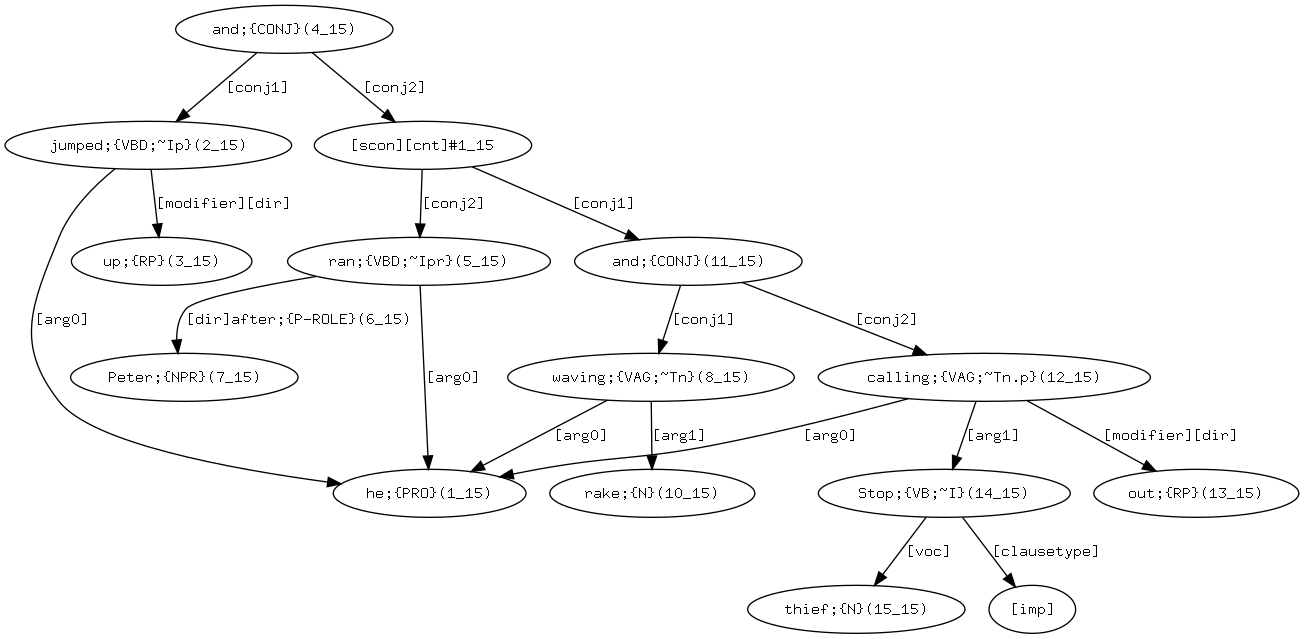
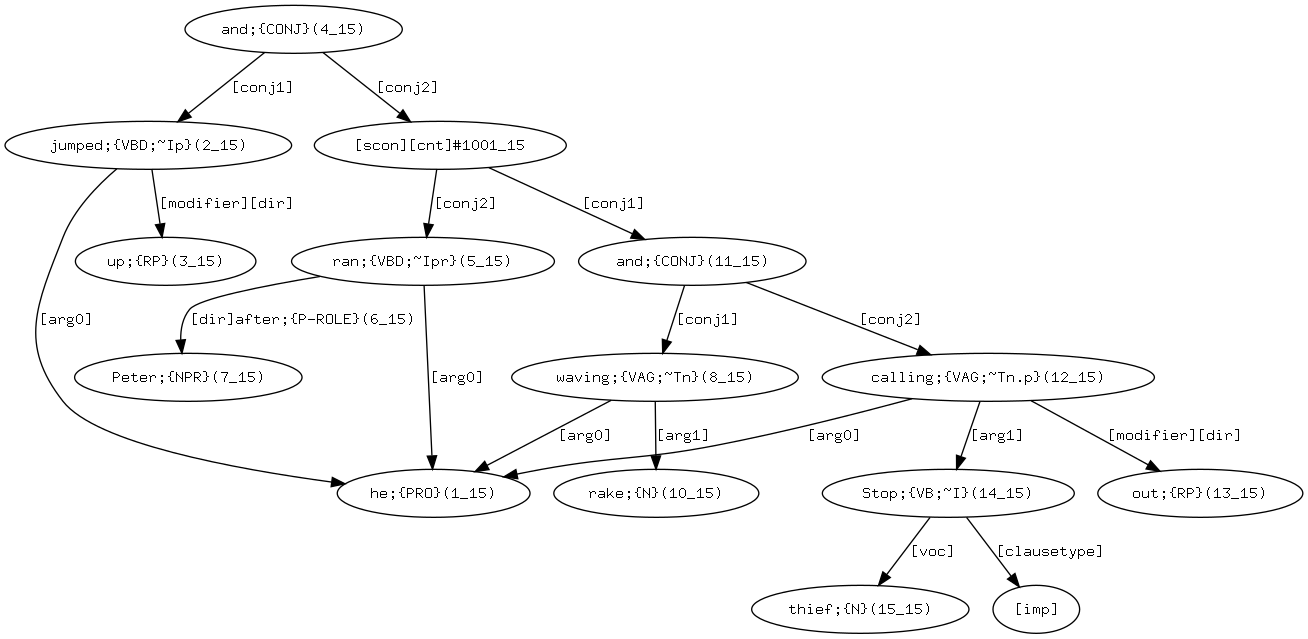
update

diff --git a/puzzle_graphs_j.html b/puzzle_graphs_j.html
@@ -70,7 +70,7 @@ body {
 
 <p align="justify">解答文を考えるために、まずは<tt>arg0]</tt>が含まれる矢印を探しましょう。 <tt>[arg0]</tt>が含まれる矢印のマスターノード（矢印の出発点）は、１つの節（補助的な役割を果たす他の単語を含む可能性がある）における主動詞になります。 一方、<tt>[arg0]</tt>が含まれる矢印の従属ノード（矢印が指しているもの）は、主語に対応する主要語（行為者あるいは状態の当事者あるいは所有者）となります。</p>
 
-<p align="justify">&nbsp;&nbsp;&nbsp;&nbsp;図<a href="#fig1">1</a>のパズルで実際に解いてみましょう。 このパズルグラフは1つの節を表わしています。 <tt>[arg0]</tt>を確認すると、<i>were</i>が主動詞であり、それを<i>there</i>がサポ－トしていることが分かります。 また、<i>Rabbits</i>が主動詞の状態の当事者（主語）であるということも分かります。</p>
+<p align="justify">&nbsp;&nbsp;&nbsp;&nbsp;図<a href="#fig1">1</a>のパズルで実際に解いてみましょう。 このパズルグラフは1つの節を表わしています。 <tt>[arg0]</tt>を確認すると、<i>were(6_1)</i>が主動詞であり、それを<i>there(5_1)</i>がサポ－トしていることが分かります。 また、<i>Rabbits(9_1)</i>が主動詞の状態の当事者（主語）であるということも分かります。</p>
 
 <p><a name="fig1">図 1: 単一の節のパズルグラフ</a></p>
 
@@ -82,16 +82,16 @@ body {
   <dt>(<a name="ex1">1</a>)</dt><dd>there were Rabbits</dd>
 </dl>
 
-<p align="justify">(<a href="#ex1">1</a>)は、この時点で既にれっきとした英文です！ しかし、(<a href="#ex1">1</a>)はまだパズル<a href="#fig1">1</a>の完全な答えではありません。まだ使われていない単語があるからです。 残っている単語のうち2語は、<i>Rabbits</i>をマスターノードとする矢印の先にあります。これらは<i>Rabbits</i>を修飾しています。 具体的には、 うさぎの数を伝える数詞（<i>four</i>）とうさぎの大きさを伝える属性修飾語(little)があります。 英語では、 数を表す修飾語は属性を表す修飾語の前に置かれなければなりません。よって、解答(<a href="#ex2">2</a>)が導かれます。</p>
+<p align="justify">(<a href="#ex1">1</a>)は、この時点で既にれっきとした英文です！ しかし、(<a href="#ex1">1</a>)はまだパズル<a href="#fig1">1</a>の完全な答えではありません。まだ使われていない単語があるからです。 残っている単語のうち2語は、<i>Rabbits(9_1)</i>をマスターノードとする矢印の先にあります。これらは<i>Rabbits(9_1)</i>を修飾しています。 具体的には、 うさぎの数を伝える数詞（<i>four(7_1)</i>）とうさぎの大きさを伝える属性修飾語(little(8_1))があります。 英語では、 数を表す修飾語は属性を表す修飾語の前に置かれなければなりません。よって、解答(<a href="#ex2">2</a>)が導かれます。</p>
 
 <dl>
   <dt>(<a name="ex2">2</a>)</dt><dd>there were four little Rabbits</dd>
 </dl>
 
-<p align="justify">&nbsp;&nbsp;&nbsp;&nbsp;図<a href="#fig1">1</a>にはまた、<tt>[modifier]</tt> <tt>[tmp]</tt>とラベル付けされた矢印と共に、時間を表す修飾語も含まれています。 これは、そのマスターノードとして主動詞を持ち、副詞<i>Once</i>を指します。 この副詞はそれ自体が前置詞<i>upon</i>でラベル付けされた修飾語を持ち、<i>time</i>が従属語としてラベル付けされています。 これらの単語を繋げると、最終的に解答文(<a href="#ex3">3</a>)が完成します。</p>
+<p align="justify">&nbsp;&nbsp;&nbsp;&nbsp;図<a href="#fig1">1</a>にはまた、<tt>[modifier]</tt> <tt>[tmp]</tt>とラベル付けされた矢印と共に、時間を表す修飾語も含まれています。 これは、そのマスターノードとして主動詞を持ち、副詞<i>Once(1_1)</i>を指します。 この副詞はそれ自体が前置詞<i>upon(2_1)</i>でラベル付けされた修飾語を持ち、<i>time(4_1)</i>が従属語としてラベル付けされています。 これらの単語を繋げると、最終的に解答文(<a href="#ex3">3</a>)が完成します。</p>
 
 <dl>
-  <dt>(<a name="ex3">3</a>)</dt><dd>Once upon a time there were four little Rabbits</dd>
+  <dt>(<a name="ex3">3</a>)</dt><dd>Once(1_1) upon(2_1) a(3_1) time(4_1) there(5_1) were(6_1) four(7_1) little(8_1) Rabbits(9_1)</dd>
 </dl>
 
 <p align="justify">&nbsp;&nbsp;&nbsp;&nbsp;なお、(<a href="#ex3">3</a>)に注目してみると、三番目の単語として<i>a</i>が含まれています。 しかし、この単語はパズル<a href="#fig1">1</a>には含まれていません。 これは&lsquo;スペシャル&rsquo;ワードの一例です。 既に説明したように、パズルグラフを解くためには、パズルグラフには無い単語の挿入を必要とすることがあります。 解答文<a href="#fig1">1</a>における各単語の順番が図1における単語の番号づけと一致することからも、こういった単語の追加が必要であると分かります。</p>
@@ -102,13 +102,13 @@ body {
 
 <img src="puzzles2.png" alt="単一の節のパズルグラフ(2)" height="230">
 
-<p align="justify"><tt>[arg0]</tt>を探すと、これも<i>were</i>が節の主動詞になっていることが分かります。ただし今回は<i>there</i>がありません。 <i>there</i>が無いので、<i>were</i>が主動詞であるこの節では<i>were</i>の前に入る&lsquo;「状態の当事者」&rsquo; (主語)を探す必要があります。 そして、この場合における&lsquo;「状態の当事者」&rsquo;は<i>name</i>です。このパズルグラフにおける<i>name</i>を確認してみると、ここから<tt>[genv]</tt>（主格）というラベルのついた矢印が伸びていることが分かります。この矢印の先は所有代名詞である<i>their</i>に向かって伸びています。 これらの単語を繋げると、解答(<a href="#ex4">4</a>)が出来上がります。</p>
+<p align="justify"><tt>[arg0]</tt>を探すと、これも<i>were(3_2)</i>が節の主動詞になっていることが分かります。ただし今回は<i>there</i>がありません。 <i>there</i>が無いので、<i>were(3_2)</i>が主動詞であるこの節では<i>were(3_2)</i>の前に入る&lsquo;「状態の当事者」&rsquo; (主語)を探す必要があります。 そして、この場合における&lsquo;「状態の当事者」&rsquo;は<i>names(2_2)</i>です。このパズルグラフにおける<i>names</i>を確認してみると、ここから<tt>[genv]</tt>（主格）というラベルのついた矢印が伸びていることが分かります。この矢印の先は所有代名詞である<i>their(1_2)</i>に向かって伸びています。 これらの単語を繋げると、解答(<a href="#ex4">4</a>)が出来上がります。</p>
 
 <dl>
   <dt>(<a name="ex4">4</a>)</dt><dd>their names were</dd>
 </dl>
 
-<p align="justify">(<a href="#ex1">1</a>)や(<a href="#ex2">2</a>)とは異なり、(<a href="#ex4">4</a>)はこれだけではまだ完全な英文ではありません。 nameが一体何であったのか、という情報が含まれていないためです。 この不足している情報は、<tt>[prd2]</tt>（主格補語）とラベル付けされた矢印を辿ると分かります。これは<i>and</i>に向かって伸びており、さらに<i>and</i>の先で4つの結合された単語に繋がります。 各々の単語は <tt>[conjN]</tt>とラベル付けされた矢印で繋がっています。(Nは、並列された語の順番を表します)。 これらを全て英文としてつなげると、(<a href="#ex5">5</a>)という解答文が出来上がります。</p>
+<p align="justify">(<a href="#ex1">1</a>)や(<a href="#ex2">2</a>)とは異なり、(<a href="#ex4">4</a>)はこれだけではまだ完全な英文ではありません。 nameが一体何であったのか、という情報が含まれていないためです。 この不足している情報は、<tt>[prd2]</tt>（主格補語）とラベル付けされた矢印を辿ると分かります。これは<i>and</i>に向かって伸びており、さらに<i>and(7_2)</i>の先で4つの結合された単語に繋がります。 各々の単語は <tt>[conjN]</tt>とラベル付けされた矢印で繋がっています。(Nは、並列された語の順番を表します)。 これらを全て英文としてつなげると、(<a href="#ex5">5</a>)という解答文が出来上がります。</p>
 
 <dl>
   <dt>(<a name="ex5">5</a>)</dt><dd>their names were Flopsy, Mopsy, Cotton-tail, and Peter</dd>
@@ -120,9 +120,9 @@ body {
 
 <img src="puzzles3.png" alt="図1と図2を組み合わせたパズルグラフ" height="380">
 
-<p align="justify">この3つ目のパズルグラフは、先ほど解答文を作った2つのパズルグラフの内容を2つの異なるノードで繋げたものになります。具体的に確認してみましょう。 まず、パズルの1番上では、<i>and</i>という言葉により2つの節が繋がっていることが分かります。 先程解答文を作った2つのパズルそれぞれにおける主動詞のノードに対応するノードは、上述の<i>Flopsy, Mopsy, Cotton-tail, <b><i>and</i></b> Peter</i>の繋がりのように、<tt>[conjN]</tt>とラベル付けされたの従属ノードを形成しています。 したがって、結局のところ、(<a href="#ex3">3</a>)の内容が<i>and</i>によって(<a href="#ex5">5</a>)の内容と結合された解答文が得られます。</p>
+<p align="justify">この3つ目のパズルグラフは、先ほど解答文を作った2つのパズルグラフの内容を2つの異なるノードで繋げたものになります。具体的に確認してみましょう。 まず、パズルの1番上では、<i>and(10_3)</i>という言葉により2つの節が繋がっていることが分かります。 先程解答文を作った2つのパズルそれぞれにおける主動詞のノードに対応するノードは、上述の<i>Flopsy, Mopsy, Cotton-tail, <b><i>and</i></b> Peter</i>の繋がりのように、<tt>[conjN]</tt>とラベル付けされたの従属ノードを形成しています。 したがって、結局のところ、(<a href="#ex3">3</a>)の内容が<i>and</i>によって(<a href="#ex5">5</a>)の内容と結合された解答文が得られます。</p>
 
-<p align="justify">&nbsp;&nbsp;&nbsp;&nbsp;しかし、2つのパズルグラフを繋げるにあたってもう1つ確認しなければならない点があります。 パズル<a href="#fig3">3</a>における矢印<tt>[genv]</tt>には、グラフ<a href="#fig2">2</a>にはあるような、<i>their</i>を従属ノードとするノードがありません。 そのかわりにここでは、パズル<a href="#fig1">1</a>の<i>Rabbits</i>ノードに相当するものを従属ノードとしています。 この矢印<tt>[genv]</tt>による接続は、<i>their</i>の&lsquo;スペシャル&rsquo;ワードとしての一つのあらわれとしていると解釈することが出来ます。 つまり、<i>their</i>という単語はパズルグラフの中には存在しませんが、それはその語の存在が、<i>Rabbits</i>のノードが矢印によって重複して指されていることから理解されるためなのです。 したがって、&lsquo;(<a href="#ex3">3</a>) <i>and</i> (<a href="#ex5">5</a>)&rsquo; &mdash; すなわち (<a href="#ex6">6</a>) &mdash;が、パズル<a href="#fig3">3</a>におけるパズルグラフの最終的な解答文であると考えるのが妥当でしょう。</p>
+<p align="justify">&nbsp;&nbsp;&nbsp;&nbsp;しかし、2つのパズルグラフを繋げるにあたってもう1つ確認しなければならない点があります。 パズル<a href="#fig3">3</a>における矢印<tt>[genv]</tt>には、グラフ<a href="#fig2">2</a>にはあるような、<i>their</i>を従属ノードとするノードがありません。 そのかわりにここでは、パズル<a href="#fig1">1</a>の<i>Rabbits(9_3)</i>ノードに相当するものを従属ノードとしています。 この矢印<tt>[genv]</tt>による接続は、<i>their</i>の&lsquo;スペシャル&rsquo;ワードとしての一つのあらわれとしていると解釈することが出来ます。 つまり、<i>their</i>という単語はパズルグラフの中には存在しませんが、それはその語の存在が、<i>Rabbits(9_3)</i>のノードが矢印によって重複して指されていることから理解されるためなのです。 したがって、&lsquo;(<a href="#ex3">3</a>) <i>and</i> (<a href="#ex5">5</a>)&rsquo; &mdash; すなわち (<a href="#ex6">6</a>) &mdash;が、パズル<a href="#fig3">3</a>におけるパズルグラフの最終的な解答文であると考えるのが妥当でしょう。</p>
 
 <dl>
   <dt>(<a name="ex6">6</a>)</dt><dd>Once upon a time there were four little Rabbits, and their names were Flopsy, Mopsy, Cotton-tail, and Peter.</dd>
@@ -130,7 +130,7 @@ body {
 
 <h3><a name="sec3.2">3.2</a>&nbsp;&nbsp;&nbsp;&lsquo;#&rsquo;の例</h3>
 
-<p align="justify">図<a href="#fig4">4</a>は、2つの動詞が図の一番上にある<i>their</i>の語から伸びる矢印<tt>[conj1]</tt>と矢印<tt>[conj2]</tt>によって結合されているという点で、図<a href="#fig3">3</a>と似た構造をしています。 しかし、ここでは1つ目の動詞が<i>lost</i>という単語であると明示されているのに対し、2番目の動詞は&lsquo;#&rsquo;と表現されています。 動詞が&lsquo;#&rsquo;で示されているということは、すなわちあるべき動詞があらわれない構文だということを示します。（失われた-<i>lost</i>-<i>lost</i>） この図の中には、さらにもう1つ&lsquo;#&rsquo;が存在します。 これは<tt>[num]</tt> (数量を示す修飾語)とofの2つのリンクを伴っており、名詞的な主要部が存在しないことを示しています。</p>
+<p align="justify">図<a href="#fig4">4</a>は、2つの動詞が図の一番上にある<i>their</i>の語から伸びる矢印<tt>[conj1]</tt>と矢印<tt>[conj2]</tt>によって結合されているという点で、図<a href="#fig3">3</a>と似た構造をしています。 しかし、ここでは1つ目の動詞が<i>lost(2_4)</i>という単語であると明示されているのに対し、2番目の動詞は&lsquo;#1002_4&rsquo;と表現されています。 動詞が&lsquo;#1001_4&rsquo;で示されているということは、すなわちあるべき動詞があらわれない構文だということを示します。（失われた-<i>lost</i>-<i>lost</i>） この図の中には、さらにもう1つ&lsquo;#&rsquo;が存在します。 これは<tt>[num]</tt> (数量を示す修飾語)とofの2つのリンクを伴っており、名詞的な主要部が存在しないことを示しています。</p>
 
 <p><a name="fig4">図 4: &lsquo;#&rsquo;をともないパズルグラフ</a></p>
 
@@ -152,7 +152,7 @@ body {
 
 <img src="puzzles5.png" alt="単一の節からなるパズルグラフ" height="220">
 
-<p align="justify"><tt>[arg0]</tt>を見つけることで、ここでは<i>was</i>が主動詞であり、 <i>Mr.&nbsp;McGregor</i>が&lsquo;状態の当事者&rsquo; (主語)となっていることが分かります。 まず、<i>was</i>からは前置詞<i>on</i>と役割を表す<tt>[loc]</tt> (場所)という情報がラベル付けされているもう1つの矢印が<i>and</i>まで伸びています。 さらに、<i>and</i>は<i>hands</i>を導く<tt>[conj1]</tt>と、<i>knees</i>を導く<tt>[conj2]</tt>を結合させています。 それから、<tt>[genv]</tt> (所有格)というラベル付けが<i>and</i>に由来しており、それが<i>Mr.&nbsp;McGregor</i>に向かって矢印を伸ばしていることから、 このパズルにおける<i>hands</i>と<i>knees</i>は<i>Mr.&nbsp;McGregor</i>のものであるということが分かります。 さらに<i>his</i>が所有格として機能するということも踏まえ、以上の繋がりを辿ると、解答(<a href="#ex8">8</a>)に辿り着きます。</p>
+<p align="justify"><tt>[arg0]</tt>を見つけることで、ここでは<i>was(3_5)</i>が主動詞であり、 <i>Mr.&nbsp;McGregor(2_5)</i>が&lsquo;状態の当事者&rsquo; (主語)となっていることが分かります。 まず、<i>was(3_5)</i>からは前置詞<i>on(4_5)</i>と役割を表す<tt>[loc]</tt> (場所)という情報がラベル付けされているもう1つの矢印が<i>and(7_5)</i>まで伸びています。 さらに、<i>and(7_5)</i>は<i>hands(6_5)</i>を導く<tt>[conj1]</tt>と、<i>knees(8_5)</i>を導く<tt>[conj2]</tt>を結合させています。 それから、<tt>[genv]</tt> (所有格)というラベル付けが<i>and(7_5)</i>に由来しており、それが<i>Mr.&nbsp;McGregor</i>に向かって矢印を伸ばしていることから、 このパズルにおける<i>hands(6_5)</i>と<i>knees(8_5)</i>は<i>Mr.&nbsp;McGregor</i>のものであるということが分かります。 さらに<i>his</i>が所有格として機能するということも踏まえ、以上の繋がりを辿ると、解答(<a href="#ex8">8</a>)に辿り着きます。</p>
 
 <dl>
   <dt>(<a name="ex8">8</a>)</dt><dd>Mr.&nbsp;McGregor was on his hands and knees</dd>
@@ -164,7 +164,7 @@ body {
 
 <img src="puzzles6.png" alt="分詞をともなう節のパズル" height="290">
 
-<p align="justify"><tt>[arg0]</tt>を見つけると、今回は熟語である<i>planting out</i>が主動詞であること、そして<i>Mr.&nbsp;McGregor</i>が&lsquo;行為者&rsquo; (主語)であることが分かります。 <i>planting out</i>から伸びているもう1つの矢印を確認すると、<tt>[arg1]</tt> (目的語)とラベル付けされていることが分かります。 この2つ目の矢印は<i>cabbages</i>が&lsquo;「何をマグレガーさんが植えていたか」を表す言葉であることを表しています。 そして、<i>cabbages</i>はと<tt>[attribute]</tt>ラベル付けされた矢印によって<i>young</i>と繋がっています。 ところで、図<a href="#fig6">6</a>の解答文を組み立てるにあたって、もう1つ確認しなければならないことがあります。 それは、<tt>[seq]</tt> (verb sequence)とラベル付けされた矢印が <i>was</i>と<i>planting out</i>を結び、iwas planting outiという動詞句を構成しているということです。 パズルグラフにおける以上の単語の繋がりを加味すると、解答文(<a href="#ex9">9</a>)に辿り着きます。</p>
+<p align="justify"><tt>[arg0]</tt>を見つけると、今回は熟語である<i>planting(4_6) out(5_6)</i>が主動詞であること、そして<i>Mr.(1_6)&nbsp;McGregor(2_6)</i>が&lsquo;行為者&rsquo; (主語)であることが分かります。 <i>planting out</i>から伸びているもう1つの矢印を確認すると、<tt>[arg1]</tt> (目的語)とラベル付けされていることが分かります。 この2つ目の矢印は<i>cabbages(7_6)</i>が&lsquo;「何をマグレガーさんが植えていたか」を表す言葉であることを表しています。 そして、<i>cabbages(7_6)</i>はと<tt>[attribute]</tt>ラベル付けされた矢印によって<i>young(6_6)</i>と繋がっています。 ところで、図<a href="#fig6">6</a>の解答文を組み立てるにあたって、もう1つ確認しなければならないことがあります。 それは、<tt>[seq]</tt> (verb sequence)とラベル付けされた矢印が <i>was</i>と<i>planting out</i>を結び、<i>was planting out</i>という動詞句を構成しているということです。 パズルグラフにおける以上の単語の繋がりを加味すると、解答文(<a href="#ex9">9</a>)に辿り着きます。</p>
 
 <dl>
   <dt>(<a name="ex9">9</a>)</dt><dd>Mr.&nbsp;McGregor was planting out young cabbages</dd>
@@ -188,7 +188,7 @@ body {
 
 <img src="puzzles8.png" alt="単一の節のパズルグラフ" height="140">
 
-<p align="justify"><i>jumped</i>を確認してみると、これは<i>he</i>と矢印<tt>[arg0]</tt>で繋がっており、また、<i>up</i>と矢印<tt>[modifier][dir]</tt>で繋がっています。 したがって、<i>jumped</i>が主動詞であり、<i>he</i>が&lsquo;行為者&rsquo; (主語)であり、<i>up</i>が副詞的修飾語であるということがわかります。 これらの情報から、(<a href="#ex11">11</a>)という単純な文を導くことが出来ます。</p>
+<p align="justify"><i>jumped(2_8)</i>を確認してみると、これは<i>he(1_8)</i>と矢印<tt>[arg0]</tt>で繋がっており、また、<i>up(3_8)</i>と矢印<tt>[modifier][dir]</tt>で繋がっています。 したがって、<i>jumped</i>が主動詞であり、<i>he</i>が&lsquo;行為者&rsquo; (主語)であり、<i>up</i>が副詞的修飾語であるということがわかります。 これらの情報から、(<a href="#ex11">11</a>)という単純な文を導くことが出来ます。</p>
 
 <dl>
   <dt>(<a name="ex11">11</a>)</dt><dd>he jumped up</dd>
@@ -200,19 +200,19 @@ body {
 
 <img src="puzzles9.png" alt="もう一つの単一節のパズルグラフ" height="140">
 
-<p align="justify"><i>ran</i>を確認してみると、これは<i>he</i>と矢印<tt>[arg0]</tt>で繋がっています。 また、<i>ran</i>は<i>Peter</i>と、前置詞<i>after</i>及び<tt>[dir]</tt> (方向)が情報として加えられた矢印によって繋がっています。 これらの単語と矢印をあわせて考えると、解答文(<a href="#ex12">12</a>)に辿り着きます。</p>
+<p align="justify"><i>ran(2_9)</i>を確認してみると、これは<i>he(1_9)</i>と矢印<tt>[arg0]</tt>で繋がっています。 また、<i>ran(2_9)</i>は,<tt>Peter(4_9)</tt>と、前置詞<i>after(3_9)</i>及び<tt>[dir]</tt> (方向)が情報として加えられた矢印によって繋がっています。 これらの単語と矢印をあわせて考えると、解答文(<a href="#ex12">12</a>)に辿り着きます。</p>
 
 <dl>
   <dt>(<a name="ex12">12</a>)</dt><dd>he ran after Peter</dd>
 </dl>
 
-<p align="justify">&nbsp;&nbsp;&nbsp;&nbsp;t着に、図 <a href="#fig10">10</a>について考えてみてください。</p>
+<p align="justify">&nbsp;&nbsp;&nbsp;&nbsp;次に、図 <a href="#fig10">10</a>について考えてみてください。</p>
 
 <p><a name="fig10">図 10: 図 8と図 9を組み合わせたパズルグラフ</a></p>
 
 <img src="puzzles10.png" alt="図 8と図 9を組み合わせたパズルグラフ" height="220">
 
-<p align="justify">これは、<i>jumped</i>と<i>ran</i>を<i>and</i>によって繋げて図<a href="#fig8">8</a> と図<a href="#fig9">9</a>を組み合わせたものです。 このパズルグラフでは、ひとつの単語である<i>he</i>が2つの動詞（<i>jumped</i>と<i>ran</i>）の&lsquo;行為者&rsquo; (主語)になっていることに留意してください。 解答文は(<a href="#ex13">13</a>)となります。</p>
+<p align="justify">これは、<i>jumped(2_10)</i>と<i>ran(5_10)</i>を<i>and(4_10)</i>によって繋げて図<a href="#fig8">8</a> と図<a href="#fig9">9</a>を組み合わせたものです。 このパズルグラフでは、ひとつの単語である<i>he(1)</i>が2つの動詞（<i>jumped(2_10)</i>と<i>ran(5_10)</i>）の&lsquo;行為者&rsquo; (主語)になっていることに留意してください。 解答文は(<a href="#ex13">13</a>)となります。</p>
 
 <dl>
   <dt>(<a name="ex13">13</a>)</dt><dd>he jumped up and ran after Peter</dd>
@@ -224,7 +224,7 @@ body {
 
 <img src="puzzles11.png" alt="分詞をともなう節のパズルグラフ" height="220">
 
-<p align="justify"><i>waving</i>が&lsquo;行為者&rsquo; (主語)を意味する矢印<tt>[arg0]</tt>で<i>he</i>と繋がっており、<i>rake</i>が&lsquo;行為の相手&rsquo;(目的語)を表す矢印<tt>[arg0]</tt>で繋がっていることが分かります。 また、<i>was</i>と<i>waving</i>を繋ぐ矢印には<tt>[seq]</tt> (verb sequence;図<a href="#fig6">6</a>の例を確認してみましょう)とラベル付けされていることもわかるでしょう。 よって、解答文は(<a href="#ex14">14</a>)となります。</p>
+<p align="justify"><i>waving(3_11)</i>が&lsquo;行為者&rsquo; (主語)を意味する矢印<tt>[arg0]</tt>で<i>he(1_11)</i>と繋がっており、<i>rake(5_11)</i>が&lsquo;行為の相手&rsquo;(目的語)を表す矢印<tt>[arg0]</tt>で繋がっていることが分かります。 また、<i>was(2_11)</i>と<i>waving(3_11)</i>を繋ぐ矢印には<tt>[seq]</tt> (verb sequence;図<a href="#fig6">6</a>の例を確認してみましょう)とラベル付けされていることもわかるでしょう。 よって、解答文は(<a href="#ex14">14</a>)となります。</p>
 
 <dl>
   <dt>(<a name="ex14">14</a>)</dt><dd>he was waving a rake</dd>
@@ -236,7 +236,7 @@ body {
 
 <img src="puzzles12.png" alt="Puzzle graph for an imperative clause" height="140">
 
-<p align="justify"><i>Stop</i>から矢印<tt>[clausetype]</tt>が伸びていることから、<i>Stop</i>はこの節の主動詞であることが分かります。 この<tt>[imp]</tt>への繋がりから、この節は命令形であるということが分かります。 典型的に、命令形は言及されていない行為者に何かをさせる命令や指示を行いますが、それに加えて <tt>[voc]</tt> (vocative)によってその行為者に対して呼びかけが行われることもあります。 それに加えて、呼びかけの言葉－図12の<i>thief</i>を命令文の文頭または文末に置くことができますが、以上のことから,解答文(<a href="#ex15">15</a>)に辿り着くことが出来ます。</p>
+<p align="justify"><i>Stop(1_12)</i>から矢印<tt>[clausetype]</tt>が伸びていることから、<i>Stop</i>はこの節の主動詞であることが分かります。 この<tt>[imp]</tt>への繋がりから、この節は命令形であるということが分かります。 典型的に、命令形は言及されていない行為者に何かをさせる命令や指示を行いますが、それに加えて <tt>[voc]</tt> (vocative)によってその行為者に対して呼びかけが行われることもあります。 それに加えて、呼びかけの言葉－図12の<i>thief(2_12)</i>を命令文の文頭または文末に置くことができますが、以上のことから,解答文(<a href="#ex15">15</a>)に辿り着くことが出来ます。</p>
 
 <dl>
   <dt>(<a name="ex15">15</a>)</dt><dd>Stop thief!</dd>
@@ -248,7 +248,7 @@ body {
 
 <img src="puzzles13.png" alt="図12の内容を埋め込んだ節のパズルグラフ" height="320">
 
-<p align="justify">これは、図<a href="#fig12">12</a>の内容が埋め込まれているパズルグラフです。 この埋め込まれた内容は、矢印<tt>[arg1]</tt> (目的語)で動詞<i>calling out</i>,と結びついています。 そして、「何を叫んでいたか」という情報を提供しています。 また、icalling outiは<i>he</i>と矢印<tt>[arg0]</tt> 行為者(主語)で繋がっており、これが文全体における主動詞となります。 また、このパズルでは<i>was</i>とicalling outiの間が矢印<tt>[seq]</tt>で結ばれています。 よって、解答文は(<a href="#ex16">16</a>)となります。</p>
+<p align="justify">これは、図<a href="#fig12">12</a>の内容が埋め込まれているパズルグラフです。 この埋め込まれた内容は、矢印<tt>[arg1]</tt> (目的語)で動詞<i>calling(3_13) out(4_13)</i>,と結びついています。 そして、「何を叫んでいたか」という情報を提供しています。 また、<i>calling(3_13) out(4_13)</i>は<i>he(1_13)</i>と矢印<tt>[arg0]</tt> 行為者(主語)で繋がっており、これが文全体における主動詞となります。 また、このパズルでは<i>was</i>と<i>calling out</i>の間が矢印<tt>[seq]</tt>で結ばれています。 よって、解答文は(<a href="#ex16">16</a>)となります。</p>
 
 <dl>
   <dt>(<a name="ex16">16</a>)</dt><dd>he was calling out, &lsquo;Stop thief!&rsquo;</dd>
@@ -260,7 +260,7 @@ body {
 
 <img src="puzzles14.png" alt="図11と図13を組み合わせたパズルグラフ" height="400">
 
-<p align="justify">パズル<a href="#fig14">14</a>は、パズル<a href="#fig11">11</a>とパズル<a href="#fig13">13</a>を繋げたものになります。 ここでは、分詞の動詞である<i>waving</i>とicalling outiを<i>and</i>が繋げています。 <tt>[seq]</tt>とラベル付けされた矢印は<i>was</i>と<i>and</i>を繋げており、これにより分詞形の動詞の語形を組み立てることが出来ます。 よって、解答文は(<a href="#ex17">17</a>)となります。</p>
+<p align="justify">パズル<a href="#fig14">14</a>は、パズル<a href="#fig11">11</a>とパズル<a href="#fig13">13</a>を繋げたものになります。 ここでは、分詞の動詞である<tt>waving(3_14)</tt>と<tt>calling(7_14)</tt>を<tt>and(6_14)</tt>が繋げています。 <tt>[seq]</tt>とラベル付けされた矢印は<tt>was(2_14)</tt>と<tt>and(6_14)</tt>を繋げており、これにより分詞形の動詞の語形を組み立てることが出来ます。 よって、解答文は(<a href="#ex17">17</a>)となります。</p>
 
 <dl>
   <dt>(<a name="ex17">17</a>)</dt><dd>he was waving a rake and calling out, &lsquo;Stop thief!&rsquo;</dd>
@@ -272,7 +272,7 @@ body {
 
 <img src="puzzles15.png" alt="図10と図14を組み合わせたパズルグラフ" height="480">
 
-<p align="justify">図<a href="#fig15">15</a>は、図<a href="#fig10">10</a>と図<a href="#fig14">14</a>が組み合わさったものです。ただし 図<a href="#fig14">14</a>において<tt>[seq]</tt> (sequence verb)とラベル付けされていた矢印は、さきほどの図<a href="#fig7">7</a>でもそうであったように、<tt>[cnt]</tt> (continuative)に置き換わっています。 この変更により、<i>waving</i>と<i>calling out</i>をこのパズルグラフにおける解答文の主動詞にすることは出来なくなりました。 ですので、主節における行為者(主語)に関する従属分詞節の並列された主動詞の情報となる必要があります。 ここでは、 <i>jumped</i>, <i>ran</i>, <i>waving</i>, and <i>calling out</i> 以上の動詞全てが矢印<tt>[arg0]</tt>(行為者(主語))により同一のノードである<i>he</i>と繋がっていることに注意してください。 よって、解答文は(<a href="#ex18">18</a>)となります。</p>
+<p align="justify">図<a href="#fig15">15</a>は、図<a href="#fig10">10</a>と図<a href="#fig14">14</a>が組み合わさったものです。ただし 図<a href="#fig14">14</a>において<tt>[seq]</tt> (sequence verb)とラベル付けされていた矢印は、さきほどの図<a href="#fig7">7</a>でもそうであったように、<tt>[cnt]</tt> (continuative)に置き換わっています。 この変更により、<i>waving</i>と<i>calling out</i>をこのパズルグラフにおける解答文の主動詞にすることは出来なくなりました。 ですので、主節における行為者(主語)に関する従属分詞節の並列された主動詞の情報となる必要があります。 ここでは、 <tt>jumped(2_15)</tt>, <tt>ran(5_15)</tt>, <tt>waving(8_15)</tt>, and <tt>calling(12_15)</tt> 以上の動詞全てが矢印<tt>[arg0]</tt>(行為者(主語))により同一のノードである<i>he(1_11)</i>と繋がっていることに注意してください。 よって、解答文は(<a href="#ex18">18</a>)となります。</p>
 
 <dl>
   <dt>(<a name="ex18">18</a>)</dt><dd>he jumped up and ran after Peter, waving a rake and calling out, &lsquo;Stop thief!&rsquo;</dd>
@@ -284,7 +284,7 @@ body {
 
 <img src="puzzles16.png" alt="図7と図15を組み合わせたパズルグラフ" height="600">
 
-<p align="justify">この図は、図<a href="#fig7">7</a>と図<a href="#fig15">15</a>とを組み合わせた、もので、 <i>but</i>が図<a href="#fig7">7</a> の<i>was</i>と、図<a href="#fig15">15</a>の最上部にある<i>and</i>とを繋いでいます。 <i>was</i>, <i>planting out</i>, <i>jumped</i>, <i>ran</i>, <i>waving</i>, and <i>calling out</i> 動詞全てが、矢印<tt>[arg0]</tt>(行為者&sol;状態の当事者(主語))により同一の人物である<i>Mr McGregor</i>と繋がっているのに注目してください。 よって、図<a href="#fig16">16</a>の最終的な解答文は (<a href="#ex19">19</a>)となります。</p>
+<p align="justify">この図は、図<a href="#fig7">7</a>と図<a href="#fig15">15</a>とを組み合わせた、もので、 <tt>but(13_16)</tt>が図<a href="#fig7">7</a> の<tt>was(3_16)</tt>と、図<a href="#fig15">15</a>の最上部にある<tt>and(17_16)</tt>とを繋いでいます。 <tt>was(3_16)</tt>, <tt>planting(9_16)</tt>, <tt>jumped(15_16)</tt>, <tt>ran(18_16)</tt>, <tt>waving(21_16)</tt>, and <tt>calling(25_16)</tt> 動詞全てが、矢印<tt>[arg0]</tt>(行為者&sol;状態の当事者(主語))により同一の人物である<tt>Mr.(1_16)_McGregor(2_16)</tt>と繋がっているのに注目してください。 よって、図<a href="#fig16">16</a>の最終的な解答文は (<a href="#ex19">19</a>)となります。</p>
 
 <dl>
   <dt>(<a name="ex19">19</a>)</dt><dd>Mr.&nbsp;McGregor was on his hands and knees planting out young cabbages, but he jumped up and ran after Peter, waving a rake and calling out, &lsquo;Stop thief!&rsquo;</dd>

diff --git a/puzzle_graphs.html b/puzzle_graphs.html
@@ -140,7 +140,7 @@ body {
 
 <h3><a name="sec3.2">3.2</a>&nbsp;&nbsp;&nbsp;An example with &lsquo;#&rsquo;</h3>
 
-<p align="justify">Figure <a href="#fig4">4</a> has a similar structure to figure <a href="#fig3">3</a>, in the sense that there are two verbs connected by <tt>[conj1]</tt> and <tt>[conj2]</tt> arrows from <tt>and(10_4)</tt> occuring topmost in the graph. However, while the verb of the first conjunct is overtly realised with <tt>lost(2_4)</tt>, the content for the verb of the second conjunct is shown as <tt>#2_4</tt> to indicate the licensed absence of a verb (a lost <i>lost</i>!) from the solution sentence One further instance of &lsquo;<tt>#</tt>&rsquo; occurs in the graph (namely, <tt>#1_4</tt>) to indicate a nominal head absence that has <tt>[num]</tt> (numeral modifier) and &lsquo;<tt>of</tt>&rsquo; (role preposition) links. Note that the indexing with &lsquo;<tt>#</tt>&rsquo; involves two numbers without round brackets. The second number says which solution sentence the elision belongs to. The first number follows a count of the number of elision instances that occur within the sentence. This gives a range of indexing that is distinct from the word location indexing within round brackets that accompanies each word.</p>
+<p align="justify">Figure <a href="#fig4">4</a> has a similar structure to figure <a href="#fig3">3</a>, in the sense that there are two verbs connected by <tt>[conj1]</tt> and <tt>[conj2]</tt> arrows from <tt>and(10_4)</tt> occuring topmost in the graph. However, while the verb of the first conjunct is overtly realised with <tt>lost(2_4)</tt>, the content for the verb of the second conjunct is shown as <tt>#1002_4</tt> to indicate the licensed absence of a verb (a lost <i>lost</i>!) from the solution sentence One further instance of &lsquo;<tt>#</tt>&rsquo; occurs in the graph (namely, <tt>#1001_4</tt>) to indicate a nominal head absence that has <tt>[num]</tt> (numeral modifier) and &lsquo;<tt>of</tt>&rsquo; (role preposition) links. Note that the indexing with &lsquo;<tt>#</tt>&rsquo; involves two numbers without round brackets. The second number says which solution sentence the elision belongs to. The first number follows a count of the number of elision instances that occur within the sentence. This gives a range of indexing that is distinct from the word location indexing within round brackets that accompanies each word.</p>
 
 <p><a name="fig4">Figure 4: Puzzle graph with &lsquo;#&rsquo;</a></p>
 
@@ -186,7 +186,7 @@ body {
 
 <img src="puzzles7.png" alt="Puzzle graph combining figures 5 and 6" height="310">
 
-<p align="justify">Figure <a href="#fig7">7</a> results from combining figures <a href="#fig5">5</a> and <a href="#fig6">6</a>, with the exception that the <tt>[cat]</tt> (catenative verb) labelled connection of figure <a href="#fig6">6</a> is replaced by a <tt>[scon][cnt](#1_7)</tt> (continuative subordinate conjunction) labelled connection. As a consequence of this change, <i>planting</i> can no longer be the main verb of the main clause of a solution sentence, but instead will need to form the main verb of a subordinate participle clause that adds to the information about the &lsquo;be-er&rsquo; (subject) of the main clause. A solution sentence that meets this criteria is (<a href="#ex11">11</a>).</p>
+<p align="justify">Figure <a href="#fig7">7</a> results from combining figures <a href="#fig5">5</a> and <a href="#fig6">6</a>, with the exception that the <tt>[cat]</tt> (catenative verb) labelled connection of figure <a href="#fig6">6</a> is replaced by a <tt>[scon][cnt]#1001_7</tt> (continuative subordinate conjunction) labelled connection. As a consequence of this change, <i>planting</i> can no longer be the main verb of the main clause of a solution sentence, but instead will need to form the main verb of a subordinate participle clause that adds to the information about the &lsquo;be-er&rsquo; (subject) of the main clause. A solution sentence that meets this criteria is (<a href="#ex11">11</a>).</p>
 
 <dl>
   <dt>(<a name="ex11">11</a>)</dt><dd>Mr.&nbsp;McGregor was on his hands and knees planting out young cabbages</dd>
@@ -282,7 +282,7 @@ body {
 
 <img src="puzzles15.png" alt="Puzzle graph combining figures 10 and 14" height="480">
 
-<p align="justify">Figure <a href="#fig15">15</a> results from combining figures <a href="#fig10">10</a> and <a href="#fig14">14</a>, with the exception that the <tt>[cat]</tt> (sequence verb) labelled connection of figure <a href="#fig14">14</a> is replaced by a <tt>[scon][cnt](#1_15)</tt> (continuative subordinate conjunction) labelled coordination connection, much like we saw happen with figure <a href="#fig7">7</a>. As a consequence of this change, <i>waving</i> and <i>calling</i> can no longer be the conjoined main verbs of the main clause of a solution sentence, but instead will need to form the conjoined main verbs of a subordinate participle clause that adds to the information about the &lsquo;do-er&rsquo; (subject) of the main clause. Note how the verbs <tt>jumped(2_15)</tt>, <tt>ran(5_15)</tt>, <tt>waving(8_15)</tt>, and <tt>calling(12_15)</tt> all have <tt>[arg0]</tt> &lsquo;do-er&rsquo; (subject) arrows that connect to the same <tt>he(1_15)</tt>. A solution sentence is (<a href="#ex19">19</a>).</p>
+<p align="justify">Figure <a href="#fig15">15</a> results from combining figures <a href="#fig10">10</a> and <a href="#fig14">14</a>, with the exception that the <tt>[cat]</tt> (sequence verb) labelled connection of figure <a href="#fig14">14</a> is replaced by a <tt>[scon][cnt]#1001_15</tt> (continuative subordinate conjunction) labelled coordination connection, much like we saw happen with figure <a href="#fig7">7</a>. As a consequence of this change, <i>waving</i> and <i>calling</i> can no longer be the conjoined main verbs of the main clause of a solution sentence, but instead will need to form the conjoined main verbs of a subordinate participle clause that adds to the information about the &lsquo;do-er&rsquo; (subject) of the main clause. Note how the verbs <tt>jumped(2_15)</tt>, <tt>ran(5_15)</tt>, <tt>waving(8_15)</tt>, and <tt>calling(12_15)</tt> all have <tt>[arg0]</tt> &lsquo;do-er&rsquo; (subject) arrows that connect to the same <tt>he(1_15)</tt>. A solution sentence is (<a href="#ex19">19</a>).</p>
 
 <dl>
   <dt>(<a name="ex19">19</a>)</dt><dd>he jumped up and ran after Peter, waving a rake and calling out, &lsquo;Stop thief!&rsquo;</dd>
@@ -294,7 +294,7 @@ body {
 
 <img src="puzzles16.png" alt="Puzzle graph combining figures 7 and 15" height="600">
 
-<p align="justify">This combines figures <a href="#fig7">7</a> and <a href="#fig15">15</a>, with <tt>but(13_16)</tt> connecting to <tt>[scon][cnt]#1_16)</tt> (corresponding to <tt>[scon][cnt]#1_7</tt> of figure <a href="#fig7">7</a>) and <tt>and(17_16)</tt> (corresponding to <tt>and(4_15)</tt> of figure <a href="#fig15">15</a>). Note how the verbs <tt>was(3_16)</tt>, <tt>planting(9_16)</tt>, <tt>jumped(15_16)</tt>, <tt>ran(18_16)</tt>, <tt>waving(21_16)</tt>, and <tt>calling(25_16)</tt> all have <tt>[arg0]</tt> &lsquo;be-er&sol;do-er&rsquo; (subject) arrows that connect to the same instance of <tt>Mr.(1_16)_McGregor(2_16)</tt>. An overall solution sentence for figure <a href="#fig16">16</a> is (<a href="#ex20">20</a>).</p>
+<p align="justify">This combines figures <a href="#fig7">7</a> and <a href="#fig15">15</a>, with <tt>but(13_16)</tt> connecting to <tt>[scon][cnt]#1001_16</tt> (corresponding to <tt>[scon][cnt]#1001_7</tt> of figure <a href="#fig7">7</a>) and <tt>and(17_16)</tt> (corresponding to <tt>and(4_15)</tt> of figure <a href="#fig15">15</a>). Note how the verbs <tt>was(3_16)</tt>, <tt>planting(9_16)</tt>, <tt>jumped(15_16)</tt>, <tt>ran(18_16)</tt>, <tt>waving(21_16)</tt>, and <tt>calling(25_16)</tt> all have <tt>[arg0]</tt> &lsquo;be-er&sol;do-er&rsquo; (subject) arrows that connect to the same instance of <tt>Mr.(1_16)_McGregor(2_16)</tt>. An overall solution sentence for figure <a href="#fig16">16</a> is (<a href="#ex20">20</a>).</p>
 
 <dl>
   <dt>(<a name="ex20">20</a>)</dt><dd>Mr.&nbsp;McGregor was on his hands and knees planting out young cabbages, but he jumped up and ran after Peter, waving a rake and calling out, &lsquo;Stop thief!&rsquo;</dd>
